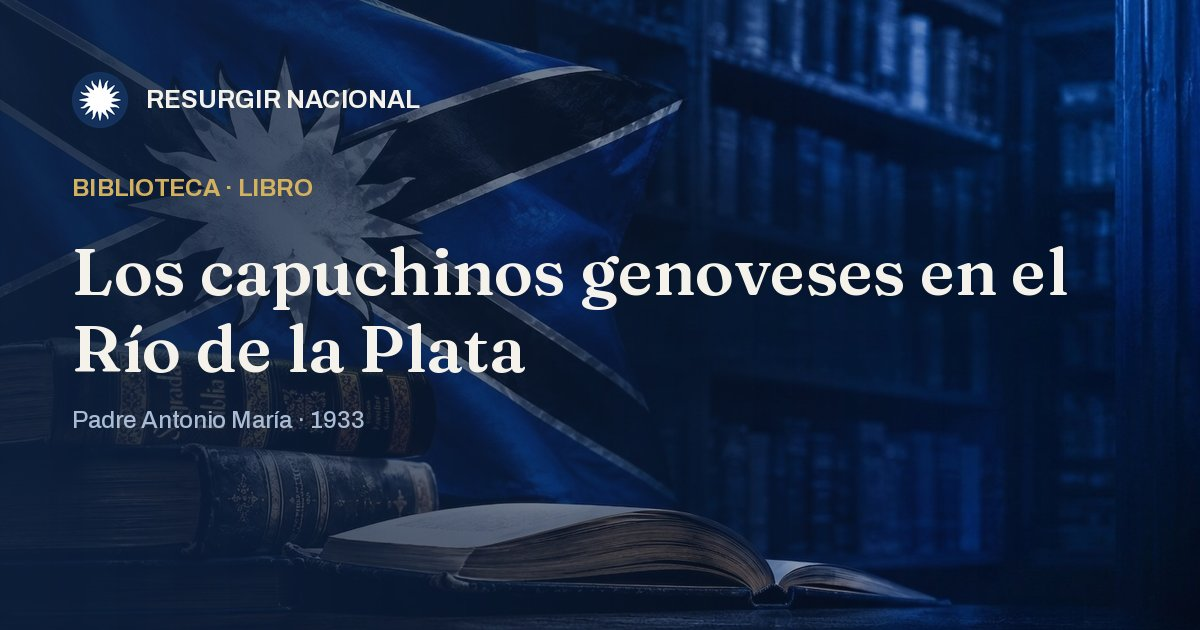
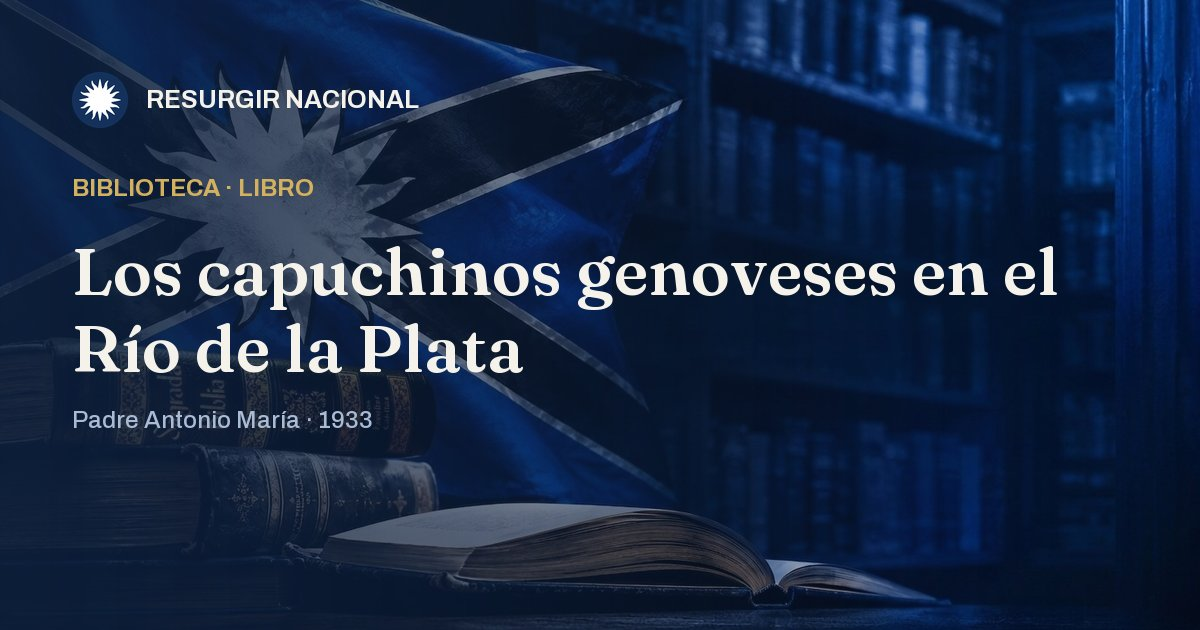
Agregar buscador a Biblioteca
Filtra en vivo los libros listados por título o autor, igual que el
buscador de Formación, pero sin necesidad de redirigir a una página
de índice aparte ya que Biblioteca muestra todos los libros en una
sola página.

diff --git a/lecturas-para-el-uruguay.html b/lecturas-para-el-uruguay.html
@@ -106,6 +106,16 @@
   a.act:hover h3 { color: var(--blue); }
   .act__meta { display: block; margin-top: 0.55rem; font-family: "Archivo", sans-serif; font-weight: 600; font-size: 0.74rem; letter-spacing: 0.1em; text-transform: uppercase; color: var(--gold-text); }
 
+  .sr-only { position: absolute; width: 1px; height: 1px; padding: 0; margin: -1px; overflow: hidden; clip: rect(0,0,0,0); white-space: nowrap; border: 0; }
+  .bib-search-row { display: flex; justify-content: flex-end; margin-top: 1.8rem; }
+  .pub-search { display: flex; align-items: center; gap: 0.5rem; flex: 0 0 auto; width: 100%; max-width: 15.5rem; }
+  .pub-search input { flex: 1; min-width: 0; font: inherit; font-size: 0.92rem; padding: 0.55rem 0.8rem; color: var(--ink); background: var(--surface); border: 1px solid var(--line); border-radius: 999px; }
+  .pub-search input::placeholder { color: var(--ink-soft); }
+  .pub-search input:focus-visible { outline: 2px solid var(--gold-line); outline-offset: 1px; border-color: var(--gold-line); }
+  .pub-search button { flex: none; display: grid; place-items: center; width: 2.35rem; height: 2.35rem; padding: 0; border: 1px solid var(--line); border-radius: 999px; background: var(--surface); color: var(--ink-soft); cursor: pointer; transition: color .15s ease, border-color .15s ease; }
+  .pub-search button:hover { color: var(--blue); border-color: var(--gold-line); }
+  .pub-search button svg { width: 1.05rem; height: 1.05rem; fill: currentColor; }
+  @media (max-width: 560px) { .pub-search { max-width: none; } }
   /* Índice numerado (panel esmerilado) + grilla de libros */
   .pub-layout { display: grid; grid-template-columns: 13rem minmax(0, 1fr); gap: 2.25rem; align-items: start; margin-top: 1.8rem; }
   .pub-index {
@@ -125,6 +135,7 @@
   .pub-index__row--active .pub-index__title { color: var(--ink); font-weight: 600; }
   .pub-index__row--active .pub-index__num { color: var(--gold-text); }
   @media (max-width: 820px) { .pub-layout { grid-template-columns: 1fr; } .pub-index { position: static; } }
+  .art-nores { color: var(--ink-soft); font-style: italic; margin-top: 0.6rem; }
 
   .write-cta { max-width: 40rem; padding: 1.4rem 1.5rem; border: 1px solid var(--line); border-left: 3px solid var(--gold-line); border-radius: 4px; background: var(--surface); }
   .write-cta h2 { font-size: var(--step-1); max-width: none; margin-top: 0.1rem; }
@@ -231,6 +242,15 @@
     </section>
 
     <section>
+      <div class="bib-search-row">
+        <form class="pub-search" role="search" onsubmit="return false;">
+          <label for="bib-search-input" class="sr-only">Buscar libros</label>
+          <input id="bib-search-input" type="search" placeholder="Busca por título o autor" autocomplete="off" />
+          <button type="submit" aria-label="Buscar">
+            <svg viewBox="0 0 20 20" aria-hidden="true"><path d="M13.6 12.2a6 6 0 1 0-1.4 1.4l4.1 4.1 1.4-1.4-4.1-4.1ZM8 12a4 4 0 1 1 0-8 4 4 0 0 1 0 8Z"/></svg>
+          </button>
+        </form>
+      </div>
       <div class="pub-layout">
         <aside class="pub-index" aria-label="Índice de libros">
           <span class="pub-index__label">Índice</span>
@@ -252,26 +272,51 @@
         <div class="pub-main">
           <!-- BOOKS:START -->
       <div class="acts acts--articles">
-        <a class="act" href="santa-biblia-uruguay.html">
+        <a class="act" href="santa-biblia-uruguay.html" data-s="Sagradas Escrituras (Nácar-Colunga 1ra edición) Varios Autores">
           <h3>Sagradas Escrituras (Nácar-Colunga 1ra edición)</h3>
           <p>La primera versión completa de la Biblia, hecha de las
 lenguas originales, hebrea y griega, al castellano por  Autores Católicos, con la que la Editorial Católica inicia, bajo los auspicios y la alta dirección de la Pontificia Universidad de Salamanca, su Biblioteca de Autores Cristianos, no hubiese podido ser publicada en circunstancia más propicia ni presentada con cartas credenciales más augustas y autorizadas que la Encíclica Divino Afflante Spiritu, de Su Santidad Pío XII.</p>
           <span class="act__meta">Varios Autores · 1944</span>
         </a>
-        <a class="act" href="los-capuchinos-genoveses-en-el-rio-de-la-plata.html">
+        <a class="act" href="los-capuchinos-genoveses-en-el-rio-de-la-plata.html" data-s="Los capuchinos genoveses en el Río de la Plata Padre Antonio María">
           <h3>Los capuchinos genoveses en el Río de la Plata</h3>
           <p>Historia de la misión de los frailes capuchinos genoveses en el Río de la Plata, editado en Montevideo en 1933.</p>
           <span class="act__meta">Padre Antonio María · 1933</span>
         </a>
-        <a class="act" href="monsenor-jacinto-vera.html">
+        <a class="act" href="monsenor-jacinto-vera.html" data-s="Monseñor D. Jacinto Vera Rafael Algorta Camusso">
           <h3>Monseñor D. Jacinto Vera</h3>
           <p>Biografía de Monseñor Jacinto Vera, primer obispo del Uruguay, editada en Montevideo en 1931.</p>
           <span class="act__meta">Rafael Algorta Camusso · 1931</span>
         </a>
       </div>
       <!-- BOOKS:END -->
+          <p class="art-nores" hidden>No se encontraron libros para esa búsqueda.</p>
         </div>
       </div>
+      <script>
+        (function () {
+          var box = document.getElementById('bib-search-input');
+          var rows = [].slice.call(document.querySelectorAll('.pub-main .act'));
+          var none = document.querySelector('.pub-main .art-nores');
+          if (!box || !rows.length) return;
+          var norm = function (s) {
+            return s.toLowerCase().normalize('NFD').replace(/[̀-ͯ]/g, '');
+          };
+          var keys = rows.map(function (r) { return norm(r.getAttribute('data-s') || ''); });
+          var apply = function () {
+            var q = norm(box.value.trim());
+            var shown = 0;
+            rows.forEach(function (r, i) {
+              var hit = !q || keys[i].indexOf(q) !== -1;
+              r.hidden = !hit;
+              if (hit) shown += 1;
+            });
+            if (none) none.hidden = shown !== 0;
+          };
+          box.addEventListener('input', apply);
+          apply();
+        })();
+      </script>
     </section>
 
     <section class="write-cta">

diff --git a/tools/src/lecturas-para-el-uruguay.html b/tools/src/lecturas-para-el-uruguay.html
@@ -95,6 +95,16 @@
   a.act:hover h3 { color: var(--blue); }
   .act__meta { display: block; margin-top: 0.55rem; font-family: "Archivo", sans-serif; font-weight: 600; font-size: 0.74rem; letter-spacing: 0.1em; text-transform: uppercase; color: var(--gold-text); }
 
+  .sr-only { position: absolute; width: 1px; height: 1px; padding: 0; margin: -1px; overflow: hidden; clip: rect(0,0,0,0); white-space: nowrap; border: 0; }
+  .bib-search-row { display: flex; justify-content: flex-end; margin-top: 1.8rem; }
+  .pub-search { display: flex; align-items: center; gap: 0.5rem; flex: 0 0 auto; width: 100%; max-width: 15.5rem; }
+  .pub-search input { flex: 1; min-width: 0; font: inherit; font-size: 0.92rem; padding: 0.55rem 0.8rem; color: var(--ink); background: var(--surface); border: 1px solid var(--line); border-radius: 999px; }
+  .pub-search input::placeholder { color: var(--ink-soft); }
+  .pub-search input:focus-visible { outline: 2px solid var(--gold-line); outline-offset: 1px; border-color: var(--gold-line); }
+  .pub-search button { flex: none; display: grid; place-items: center; width: 2.35rem; height: 2.35rem; padding: 0; border: 1px solid var(--line); border-radius: 999px; background: var(--surface); color: var(--ink-soft); cursor: pointer; transition: color .15s ease, border-color .15s ease; }
+  .pub-search button:hover { color: var(--blue); border-color: var(--gold-line); }
+  .pub-search button svg { width: 1.05rem; height: 1.05rem; fill: currentColor; }
+  @media (max-width: 560px) { .pub-search { max-width: none; } }
   /* Índice numerado (panel esmerilado) + grilla de libros */
   .pub-layout { display: grid; grid-template-columns: 13rem minmax(0, 1fr); gap: 2.25rem; align-items: start; margin-top: 1.8rem; }
   .pub-index {
@@ -114,6 +124,7 @@
   .pub-index__row--active .pub-index__title { color: var(--ink); font-weight: 600; }
   .pub-index__row--active .pub-index__num { color: var(--gold-text); }
   @media (max-width: 820px) { .pub-layout { grid-template-columns: 1fr; } .pub-index { position: static; } }
+  .art-nores { color: var(--ink-soft); font-style: italic; margin-top: 0.6rem; }
 
   .write-cta { max-width: 40rem; padding: 1.4rem 1.5rem; border: 1px solid var(--line); border-left: 3px solid var(--gold-line); border-radius: 4px; background: var(--surface); }
   .write-cta h2 { font-size: var(--step-1); max-width: none; margin-top: 0.1rem; }
@@ -217,6 +228,15 @@
     </section>
 
     <section>
+      <div class="bib-search-row">
+        <form class="pub-search" role="search" onsubmit="return false;">
+          <label for="bib-search-input" class="sr-only">Buscar libros</label>
+          <input id="bib-search-input" type="search" placeholder="Busca por título o autor" autocomplete="off" />
+          <button type="submit" aria-label="Buscar">
+            <svg viewBox="0 0 20 20" aria-hidden="true"><path d="M13.6 12.2a6 6 0 1 0-1.4 1.4l4.1 4.1 1.4-1.4-4.1-4.1ZM8 12a4 4 0 1 1 0-8 4 4 0 0 1 0 8Z"/></svg>
+          </button>
+        </form>
+      </div>
       <div class="pub-layout">
         <aside class="pub-index" aria-label="Índice de libros">
           <span class="pub-index__label">Índice</span>
@@ -224,8 +244,33 @@
         </aside>
         <div class="pub-main">
           <!-- BOOKS:START --><!-- BOOKS:END -->
+          <p class="art-nores" hidden>No se encontraron libros para esa búsqueda.</p>
         </div>
       </div>
+      <script>
+        (function () {
+          var box = document.getElementById('bib-search-input');
+          var rows = [].slice.call(document.querySelectorAll('.pub-main .act'));
+          var none = document.querySelector('.pub-main .art-nores');
+          if (!box || !rows.length) return;
+          var norm = function (s) {
+            return s.toLowerCase().normalize('NFD').replace(/[̀-ͯ]/g, '');
+          };
+          var keys = rows.map(function (r) { return norm(r.getAttribute('data-s') || ''); });
+          var apply = function () {
+            var q = norm(box.value.trim());
+            var shown = 0;
+            rows.forEach(function (r, i) {
+              var hit = !q || keys[i].indexOf(q) !== -1;
+              r.hidden = !hit;
+              if (hit) shown += 1;
+            });
+            if (none) none.hidden = shown !== 0;
+          };
+          box.addEventListener('input', apply);
+          apply();
+        })();
+      </script>
     </section>
 
     <section class="write-cta">

diff --git a/santa-biblia-uruguay.html b/santa-biblia-uruguay.html
@@ -109,6 +109,16 @@ lenguas originales, hebrea y griega, al castellano por  Autores Católicos, con 
   a.act:hover h3 { color: var(--blue); }
   .act__meta { display: block; margin-top: 0.55rem; font-family: "Archivo", sans-serif; font-weight: 600; font-size: 0.74rem; letter-spacing: 0.1em; text-transform: uppercase; color: var(--gold-text); }
 
+  .sr-only { position: absolute; width: 1px; height: 1px; padding: 0; margin: -1px; overflow: hidden; clip: rect(0,0,0,0); white-space: nowrap; border: 0; }
+  .bib-search-row { display: flex; justify-content: flex-end; margin-top: 1.8rem; }
+  .pub-search { display: flex; align-items: center; gap: 0.5rem; flex: 0 0 auto; width: 100%; max-width: 15.5rem; }
+  .pub-search input { flex: 1; min-width: 0; font: inherit; font-size: 0.92rem; padding: 0.55rem 0.8rem; color: var(--ink); background: var(--surface); border: 1px solid var(--line); border-radius: 999px; }
+  .pub-search input::placeholder { color: var(--ink-soft); }
+  .pub-search input:focus-visible { outline: 2px solid var(--gold-line); outline-offset: 1px; border-color: var(--gold-line); }
+  .pub-search button { flex: none; display: grid; place-items: center; width: 2.35rem; height: 2.35rem; padding: 0; border: 1px solid var(--line); border-radius: 999px; background: var(--surface); color: var(--ink-soft); cursor: pointer; transition: color .15s ease, border-color .15s ease; }
+  .pub-search button:hover { color: var(--blue); border-color: var(--gold-line); }
+  .pub-search button svg { width: 1.05rem; height: 1.05rem; fill: currentColor; }
+  @media (max-width: 560px) { .pub-search { max-width: none; } }
   /* Índice numerado (panel esmerilado) + grilla de libros */
   .pub-layout { display: grid; grid-template-columns: 13rem minmax(0, 1fr); gap: 2.25rem; align-items: start; margin-top: 1.8rem; }
   .pub-index {
@@ -128,6 +138,7 @@ lenguas originales, hebrea y griega, al castellano por  Autores Católicos, con 
   .pub-index__row--active .pub-index__title { color: var(--ink); font-weight: 600; }
   .pub-index__row--active .pub-index__num { color: var(--gold-text); }
   @media (max-width: 820px) { .pub-layout { grid-template-columns: 1fr; } .pub-index { position: static; } }
+  .art-nores { color: var(--ink-soft); font-style: italic; margin-top: 0.6rem; }
 
   .write-cta { max-width: 40rem; padding: 1.4rem 1.5rem; border: 1px solid var(--line); border-left: 3px solid var(--gold-line); border-radius: 4px; background: var(--surface); }
   .write-cta h2 { font-size: var(--step-1); max-width: none; margin-top: 0.1rem; }

diff --git a/los-capuchinos-genoveses-en-el-rio-de-la-plata.html b/los-capuchinos-genoveses-en-el-rio-de-la-plata.html
@@ -107,6 +107,16 @@
   a.act:hover h3 { color: var(--blue); }
   .act__meta { display: block; margin-top: 0.55rem; font-family: "Archivo", sans-serif; font-weight: 600; font-size: 0.74rem; letter-spacing: 0.1em; text-transform: uppercase; color: var(--gold-text); }
 
+  .sr-only { position: absolute; width: 1px; height: 1px; padding: 0; margin: -1px; overflow: hidden; clip: rect(0,0,0,0); white-space: nowrap; border: 0; }
+  .bib-search-row { display: flex; justify-content: flex-end; margin-top: 1.8rem; }
+  .pub-search { display: flex; align-items: center; gap: 0.5rem; flex: 0 0 auto; width: 100%; max-width: 15.5rem; }
+  .pub-search input { flex: 1; min-width: 0; font: inherit; font-size: 0.92rem; padding: 0.55rem 0.8rem; color: var(--ink); background: var(--surface); border: 1px solid var(--line); border-radius: 999px; }
+  .pub-search input::placeholder { color: var(--ink-soft); }
+  .pub-search input:focus-visible { outline: 2px solid var(--gold-line); outline-offset: 1px; border-color: var(--gold-line); }
+  .pub-search button { flex: none; display: grid; place-items: center; width: 2.35rem; height: 2.35rem; padding: 0; border: 1px solid var(--line); border-radius: 999px; background: var(--surface); color: var(--ink-soft); cursor: pointer; transition: color .15s ease, border-color .15s ease; }
+  .pub-search button:hover { color: var(--blue); border-color: var(--gold-line); }
+  .pub-search button svg { width: 1.05rem; height: 1.05rem; fill: currentColor; }
+  @media (max-width: 560px) { .pub-search { max-width: none; } }
   /* Índice numerado (panel esmerilado) + grilla de libros */
   .pub-layout { display: grid; grid-template-columns: 13rem minmax(0, 1fr); gap: 2.25rem; align-items: start; margin-top: 1.8rem; }
   .pub-index {
@@ -126,6 +136,7 @@
   .pub-index__row--active .pub-index__title { color: var(--ink); font-weight: 600; }
   .pub-index__row--active .pub-index__num { color: var(--gold-text); }
   @media (max-width: 820px) { .pub-layout { grid-template-columns: 1fr; } .pub-index { position: static; } }
+  .art-nores { color: var(--ink-soft); font-style: italic; margin-top: 0.6rem; }
 
   .write-cta { max-width: 40rem; padding: 1.4rem 1.5rem; border: 1px solid var(--line); border-left: 3px solid var(--gold-line); border-radius: 4px; background: var(--surface); }
   .write-cta h2 { font-size: var(--step-1); max-width: none; margin-top: 0.1rem; }

diff --git a/monsenor-jacinto-vera.html b/monsenor-jacinto-vera.html
@@ -107,6 +107,16 @@
   a.act:hover h3 { color: var(--blue); }
   .act__meta { display: block; margin-top: 0.55rem; font-family: "Archivo", sans-serif; font-weight: 600; font-size: 0.74rem; letter-spacing: 0.1em; text-transform: uppercase; color: var(--gold-text); }
 
+  .sr-only { position: absolute; width: 1px; height: 1px; padding: 0; margin: -1px; overflow: hidden; clip: rect(0,0,0,0); white-space: nowrap; border: 0; }
+  .bib-search-row { display: flex; justify-content: flex-end; margin-top: 1.8rem; }
+  .pub-search { display: flex; align-items: center; gap: 0.5rem; flex: 0 0 auto; width: 100%; max-width: 15.5rem; }
+  .pub-search input { flex: 1; min-width: 0; font: inherit; font-size: 0.92rem; padding: 0.55rem 0.8rem; color: var(--ink); background: var(--surface); border: 1px solid var(--line); border-radius: 999px; }
+  .pub-search input::placeholder { color: var(--ink-soft); }
+  .pub-search input:focus-visible { outline: 2px solid var(--gold-line); outline-offset: 1px; border-color: var(--gold-line); }
+  .pub-search button { flex: none; display: grid; place-items: center; width: 2.35rem; height: 2.35rem; padding: 0; border: 1px solid var(--line); border-radius: 999px; background: var(--surface); color: var(--ink-soft); cursor: pointer; transition: color .15s ease, border-color .15s ease; }
+  .pub-search button:hover { color: var(--blue); border-color: var(--gold-line); }
+  .pub-search button svg { width: 1.05rem; height: 1.05rem; fill: currentColor; }
+  @media (max-width: 560px) { .pub-search { max-width: none; } }
   /* Índice numerado (panel esmerilado) + grilla de libros */
   .pub-layout { display: grid; grid-template-columns: 13rem minmax(0, 1fr); gap: 2.25rem; align-items: start; margin-top: 1.8rem; }
   .pub-index {
@@ -126,6 +136,7 @@
   .pub-index__row--active .pub-index__title { color: var(--ink); font-weight: 600; }
   .pub-index__row--active .pub-index__num { color: var(--gold-text); }
   @media (max-width: 820px) { .pub-layout { grid-template-columns: 1fr; } .pub-index { position: static; } }
+  .art-nores { color: var(--ink-soft); font-style: italic; margin-top: 0.6rem; }
 
   .write-cta { max-width: 40rem; padding: 1.4rem 1.5rem; border: 1px solid var(--line); border-left: 3px solid var(--gold-line); border-radius: 4px; background: var(--surface); }
   .write-cta h2 { font-size: var(--step-1); max-width: none; margin-top: 0.1rem; }

diff --git a/scripts/render_biblioteca.py b/scripts/render_biblioteca.py
@@ -167,12 +167,13 @@ def cards_block(books):
         return ""
     rows = []
     for b in books:
+        search_text = "%s %s" % (b["title"], b.get("author") or "")
         rows.append(
-            '        <a class="act" href="%s.html">\n'
+            '        <a class="act" href="%s.html" data-s="%s">\n'
             '          <h3>%s</h3>\n'
             '          <p>%s</p>\n'
             '          <span class="act__meta">%s</span>\n'
-            '        </a>' % (b["slug"], esc(b["title"]), esc(b.get("summary", "")), esc(meta_line(b)))
+            '        </a>' % (b["slug"], esc(search_text), esc(b["title"]), esc(b.get("summary", "")), esc(meta_line(b)))
         )
     return '\n      <div class="acts acts--articles">\n' + "\n".join(rows) + "\n      </div>\n      "
 
